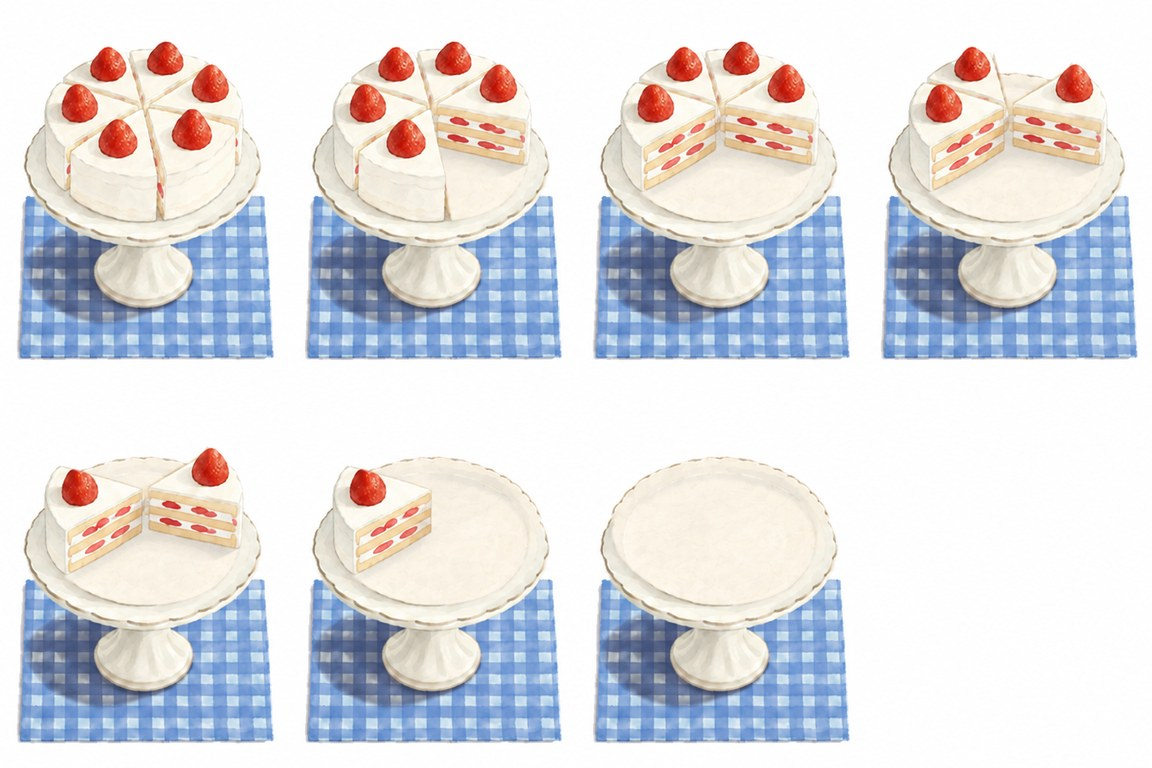
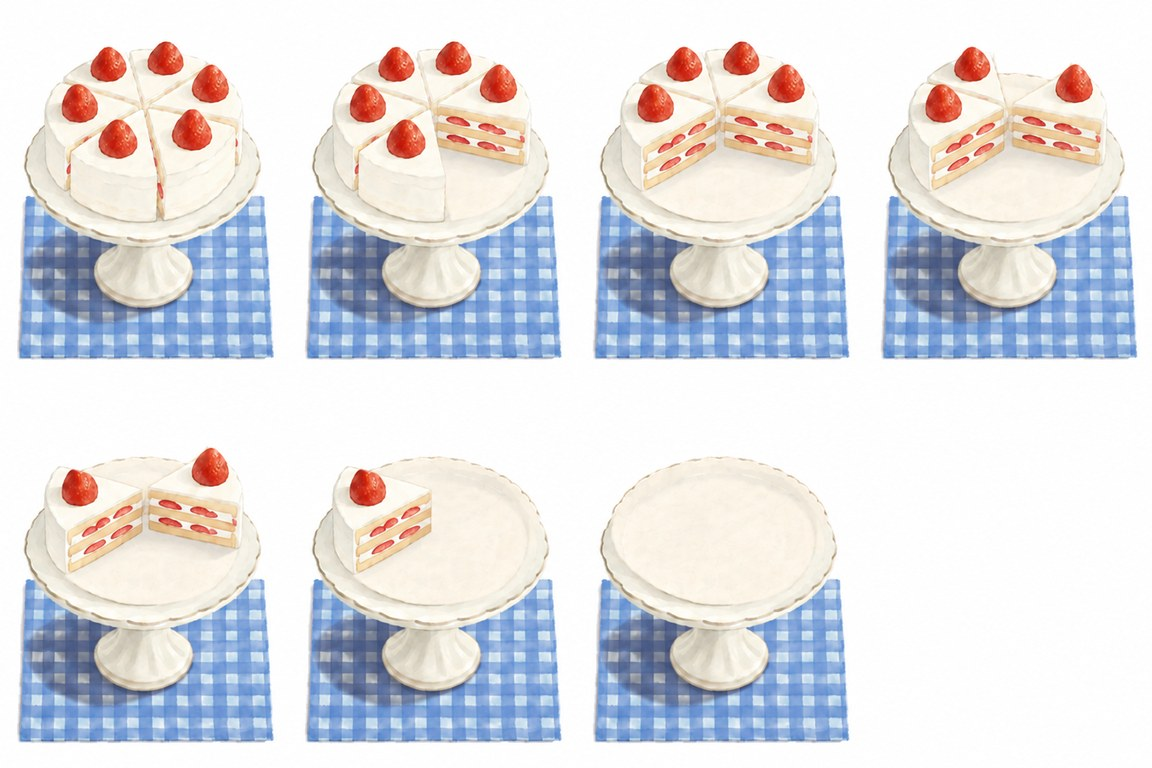
Cookie book: four in a row, pages of sixteen, cookie arrows and a page turn (BookTurner); report: second round of papers and book looks, six knob choices, ChatGPT's second cake retouch

diff --git a/Docs/tools/report_page/index.html b/Docs/tools/report_page/index.html
@@ -74,8 +74,8 @@ h3 small{font-weight:600;color:var(--soft);font-size:13px;margin-left:6px}
 <h2 id="next"><span class="n">1</span>Next</h2>
 <div class="grid">
 <div class="who p1"><h3>You</h3>
-<p><b>Three picks</b> (Current): screenshot captions, paper for the wooden board, the opened cookie book.</p>
-<p><b>Strawberry cake:</b> ChatGPT's retouch is here; tick to put it in the game.</p>
+<p><b>Picks</b> (Current): screenshot captions; paper for Daily Treats and the day card (second round); the cookie book's look (second round); the handle's knob.</p>
+<p><b>Strawberry cake:</b> ChatGPT's second retouch is here.</p>
 <p><b>Build:</b> say when; today's second list is in the project only.</p>
 </div>
 <div class="who p2"><h3>Me</h3>
@@ -101,40 +101,50 @@ h3 small{font-weight:600;color:var(--soft);font-size:13px;margin-left:6px}
 </ul>
 </div>
 <div class="card">
-<p style="margin-top:0"><b>Paper instead of the wooden board: four proposals.</b> The board is used on Daily Treats, the map's day card and the pause menu. Shown in the game; the text and spacing get fitted to the one you pick.</p>
-<figure><img src="paper_treats.jpg" alt="Daily Treats five times: on the wooden board now, on a lined note with a red checked top, on brown kraft paper with a stitched line, on a cream card with a scalloped edge and a red line, on a cream card with a red checked band"><figcaption>Daily Treats.</figcaption></figure>
-<figure><img src="paper_map.jpg" alt="The map's day card five times, on the same five backgrounds"><figcaption>The map's day card.</figcaption></figure>
-<ul>
-<li><b>A</b> is the level-finished paper you already have, so every panel would be the same sheet. <b>B</b> kraft paper, like a bakery bag. <b>C</b> a doily card. <b>D</b> a recipe card with the red checks of the arrange banner.</li>
-</ul>
+<p style="margin-top:0"><b>Paper instead of the wooden board: second round.</b> The three you liked (B, C, D) and five more built on them. Shown in the game; the text and spacing get fitted to the one you pick. Daily Treats and the day card can each have their own.</p>
+<figure><img src="paper_treats2.jpg" alt="Daily Treats on eight papers: kraft, doily card, recipe card with red checks, a cream doily laid on kraft, a scalloped card with a red checked band, a kraft tag with a hole and twine, a cream card with a mint checked band and dotted border, cream paper with red candy stripes top and bottom"><figcaption>Daily Treats.</figcaption></figure>
+<figure><img src="paper_map2.jpg" alt="The map's day card on the same eight papers"><figcaption>The map's day card.</figcaption></figure>
+<p style="margin:6px 0"><b>Daily Treats:</b></p>
 <ul class="checks">
-<li><label><input type="checkbox" data-id="cur.paper.a"> A</label></li>
-<li><label><input type="checkbox" data-id="cur.paper.b"> B</label></li>
-<li><label><input type="checkbox" data-id="cur.paper.c"> C</label></li>
-<li><label><input type="checkbox" data-id="cur.paper.d"> D</label></li>
+<li><label><input type="checkbox" data-id="cur.paper2.t.b"> B</label></li><li><label><input type="checkbox" data-id="cur.paper2.t.c"> C</label></li><li><label><input type="checkbox" data-id="cur.paper2.t.d"> D</label></li><li><label><input type="checkbox" data-id="cur.paper2.t.e"> E</label></li><li><label><input type="checkbox" data-id="cur.paper2.t.f"> F</label></li><li><label><input type="checkbox" data-id="cur.paper2.t.g"> G</label></li><li><label><input type="checkbox" data-id="cur.paper2.t.h"> H</label></li><li><label><input type="checkbox" data-id="cur.paper2.t.i"> I</label></li>
+</ul>
+<p style="margin:6px 0"><b>Day card</b> (and the pause menu):</p>
+<ul class="checks">
+<li><label><input type="checkbox" data-id="cur.paper2.d.b"> B</label></li><li><label><input type="checkbox" data-id="cur.paper2.d.c"> C</label></li><li><label><input type="checkbox" data-id="cur.paper2.d.d"> D</label></li><li><label><input type="checkbox" data-id="cur.paper2.d.e"> E</label></li><li><label><input type="checkbox" data-id="cur.paper2.d.f"> F</label></li><li><label><input type="checkbox" data-id="cur.paper2.d.g"> G</label></li><li><label><input type="checkbox" data-id="cur.paper2.d.h"> H</label></li><li><label><input type="checkbox" data-id="cur.paper2.d.i"> I</label></li>
 </ul>
 </div>
 
 <div class="card">
-<p style="margin-top:0"><b>The opened cookie book: four looks.</b> The book's button is red; open, it is a plain cream sheet. Shown in the game; the cookies get moved in from the edges for the one you pick.</p>
-<figure><img src="book_looks.jpg" alt="The open cookie book five times: plain cream now; inside a red cover with gold corners and a ribbon; as an open book with two pages and a red cover round it; as a recipe binder with red rings; as a kraft scrapbook page with red stitching and taped corners"><figcaption>Now, then 1 to 4.</figcaption></figure>
+<p style="margin-top:0"><b>The cookie book: pages that turn, and a second round of looks.</b></p>
+<p style="margin:8px 0 4px"><b>Built (in the project, no build):</b> four cookies in a row, sixteen to a page. A full page is followed by another; the cookie arrows under the grid turn the page, which lifts at its left edge like a book's. "1 / 2" shows where you are. The book opens on the page with the newest cookie.</p>
+<figure><img src="book_flip.jpg" style="max-height:520px" alt="The book on page 1 with sixteen cookies and a next arrow; the page folding towards the left edge; page 2 with three cookies and a back arrow"><figcaption>Page 1, the page turning, page 2 (on look 3).</figcaption></figure>
+<p style="margin:12px 0 4px"><b>Looks:</b> the three you liked (2, 3, 4) and four more. The cookies and words get moved in from the edges for the one you pick, and the turning page takes its paper.</p>
+<figure><img src="book_looks2.jpg" alt="The open book in seven looks, each with sixteen cookies in rows of four: open book, recipe binder with red rings, kraft scrapbook, a red book bound on the left with a ribbon, a kraft binder with coloured tabs, a spiral notebook with lines, a red checked scrapbook"><figcaption>2, 3, 4 liked; 5 to 8 new.</figcaption></figure>
 <ul class="checks">
-<li><label><input type="checkbox" data-id="cur.book.1"> 1 Red cover frame</label></li>
-<li><label><input type="checkbox" data-id="cur.book.2"> 2 Open book</label></li>
-<li><label><input type="checkbox" data-id="cur.book.3"> 3 Recipe binder</label></li>
-<li><label><input type="checkbox" data-id="cur.book.4"> 4 Scrapbook</label></li>
+<li><label><input type="checkbox" data-id="cur.book2.2"> 2</label></li><li><label><input type="checkbox" data-id="cur.book2.3"> 3</label></li><li><label><input type="checkbox" data-id="cur.book2.4"> 4</label></li><li><label><input type="checkbox" data-id="cur.book2.5"> 5</label></li><li><label><input type="checkbox" data-id="cur.book2.6"> 6</label></li><li><label><input type="checkbox" data-id="cur.book2.7"> 7</label></li><li><label><input type="checkbox" data-id="cur.book2.8"> 8</label></li>
 </ul>
 </div>
 
 <div class="card">
-<p style="margin-top:0"><b>Strawberry cake: ChatGPT's retouch is here.</b> Its picture limit had reset; it made your three fixes today. Not in the game yet.</p>
-<figure><img src="cake_gpt_retouch.jpg" alt="Seven cake frames by ChatGPT: 6, 5, 4, 3 slices in the top row and 2, 1, 0 in the bottom row, every slice with its strawberry, crisp sponge and cream layers on the cut faces, a smooth bare plate"><figcaption>ChatGPT, 19 November: 6, 5, 4, 3 / 2, 1, 0 slices.</figcaption></figure>
+<p style="margin-top:0"><b>Strawberry cake: ChatGPT's second retouch, your two notes.</b> Not in the game yet.</p>
+<figure><img src="cake_frame2_zoom.jpg" alt="Frame 2 close up twice. Left: a pale ridge on the plate at the left of the gap and flat red blobs in the cut face. Right: the ridge fainter and the strawberry pieces with darker edges"><figcaption>Frame 2, close up. Left: its first try. Right: after your notes.</figcaption></figure>
+<figure><img src="cake_gpt_retouch.jpg" alt="ChatGPT's seven cake frames after the second retouch"><figcaption>The whole sheet now.</figcaption></figure>
 <ul>
-<li>Counted: every frame has the right slices, each with its strawberry. Layers crisp, the bare plate smooth, no shade at the last slice's corner.</li>
+<li><b>The line left of the gap:</b> fainter, the plate there smoother. <b>Strawberry pieces:</b> darker edges and a paler inside. Both changes are small; say if it needs another pass.</li>
+<li>ChatGPT has one picture left today (three a day on the free plan).</li>
 </ul>
 <ul class="checks">
-<li><label><input type="checkbox" data-id="cur.cakegpt.use"> Cut it into the game</label></li>
-<li><label><input type="checkbox" data-id="cur.cakegpt.change"> Changes (I will say what)</label></li>
+<li><label><input type="checkbox" data-id="cur.cakegpt2.use"> Good, cut it into the game</label></li>
+<li><label><input type="checkbox" data-id="cur.cakegpt2.again"> Another pass on the same two things</label></li>
+<li><label><input type="checkbox" data-id="cur.cakegpt2.change"> Other changes (I will say what)</label></li>
+</ul>
+</div>
+
+<div class="card">
+<p style="margin-top:0"><b>Pull handle: six more knobs, on the biscuit stick.</b> By Gemini. The one in the project now is the white ring.</p>
+<figure><img src="handle_knobs.jpg" alt="Seven handle knobs on a biscuit stick: the white ring with red sprinkles, a chocolate chip cookie, a jam thumbprint with a scalloped edge, a pink and cream pinwheel, a pink iced ring, a yellow flower, a plain biscuit with a pressed heart"><figcaption>Now, then 1 to 6.</figcaption></figure>
+<ul class="checks">
+<li><label><input type="checkbox" data-id="cur.knob.0"> Keep the white ring</label></li><li><label><input type="checkbox" data-id="cur.knob.1"> 1</label></li><li><label><input type="checkbox" data-id="cur.knob.2"> 2</label></li><li><label><input type="checkbox" data-id="cur.knob.3"> 3</label></li><li><label><input type="checkbox" data-id="cur.knob.4"> 4</label></li><li><label><input type="checkbox" data-id="cur.knob.5"> 5</label></li><li><label><input type="checkbox" data-id="cur.knob.6"> 6</label></li>
 </ul>
 </div>
 

diff --git a/Assets/Scripts/Shop/ShopCookies.cs b/Assets/Scripts/Shop/ShopCookies.cs
@@ -288,18 +288,14 @@ public static class ShopCookies
         var title = Label(page, "Title", "MY COOKIES", titleFont, 78f, new Vector2(0f, H / 2f - 90f), new Vector2(W - 60f, 110f));
         title.color = Ink;
 
-        // as many columns as it takes for every owned cookie to fit above the description (18 can be owned; on an
-        // iPad four columns hold only 16)
-        const float infoH = 330f;
-        var gridTop = H / 2f - 170f; var gridBottom = -H / 2f + infoH + 60f;
-        var columns = 4; float cell;
-        while (true)
-        {
-            cell = (W - 80f) / columns;
-            var rows = Mathf.Max(1, Mathf.CeilToInt(owned.Count / (float)columns));
-            if (rows * cell <= gridTop - gridBottom || columns >= 7) break;
-            columns++;
-        }
+        // four cookies in a row, and as many rows as fit above the description; a full page is followed by another, turned
+        // like a book's with the arrows under the grid (owner, 19 November 2026: "put four cookies in a row, we will
+        // have a page flip effect when a page is full, and a next arrow to click on to flip the page. So it's like a book")
+        const float infoH = 330f; const float arrowRow = 110f; const int columns = 4;
+        var gridTop = H / 2f - 170f; var gridBottom = -H / 2f + infoH + 60f + arrowRow;
+        var cell = (W - 80f) / columns;
+        var rowsPerPage = Mathf.Max(1, Mathf.FloorToInt((gridTop - gridBottom) / cell)); var perPage = rowsPerPage * columns;
+        var pageCount = Mathf.Max(1, Mathf.CeilToInt(owned.Count / (float)perPage));
         var icon = cell * 0.86f;
         // the chosen thing: its cookie, its name and what it does, on the lower part of the page
         var chosen = Child(page, "Chosen", new Vector2(0.5f, 0.5f), new Vector2(230f, 230f), new Vector2(-W / 2f + 170f, -H / 2f + infoH / 2f + 30f));
@@ -312,11 +308,14 @@ public static class ShopCookies
         var ruleImg = rule.gameObject.AddComponent<Image>(); ruleImg.color = new Color(Ink.r, Ink.g, Ink.b, 0.25f); ruleImg.raycastTarget = false;
 
         var cells = new List<RectTransform>(); var newest = owned.Count - 1;
+        var leaves = new List<RectTransform>();
+        for (var k = 0; k < pageCount; k++) { var leaf = Child(page, "Leaf" + k, new Vector2(0.5f, 0.5f), new Vector2(W, H), Vector2.zero); leaf.gameObject.SetActive(false); leaves.Add(leaf); }
         for (var i = 0; i < owned.Count; i++)
         {
             var e = owned[i];
-            var pos = new Vector2(-W / 2f + 40f + cell * (i % columns + 0.5f), gridTop - cell * (i / columns + 0.5f));
-            var c = Child(page, "Owned" + i, new Vector2(0.5f, 0.5f), new Vector2(icon, icon), pos);
+            var onPage = i / perPage; var slot = i % perPage;
+            var pos = new Vector2(-W / 2f + 40f + cell * (slot % columns + 0.5f), gridTop - cell * (slot / columns + 0.5f));
+            var c = Child(leaves[onPage], "Owned" + i, new Vector2(0.5f, 0.5f), new Vector2(icon, icon), pos);
             var ci = c.gameObject.AddComponent<Image>(); ci.sprite = e.cookie; ci.preserveAspect = true;
             var cb = c.gameObject.AddComponent<Button>(); cb.transition = Selectable.Transition.None;
             cells.Add(c);
@@ -342,6 +341,22 @@ public static class ShopCookies
             var x = Child(page, "Close", new Vector2(0.5f, 0.5f), new Vector2(96f, 96f), new Vector2(W / 2f - 76f, H / 2f - 82f));
             var xi = x.gameObject.AddComponent<Image>(); xi.sprite = cross; xi.preserveAspect = true;
             x.gameObject.AddComponent<Button>().onClick.AddListener(CloseBook);
+        }
+        // the pages: the one with the newest cookie first; arrows and "1 / 2" under the grid when there is more than one
+        var turner = go.AddComponent<BookTurner>();
+        turner.Set(page, leaves, owned.Count > 0 ? newest / perPage : 0, new Rect(-W / 2f + 20f, gridBottom, W - 40f, gridTop - gridBottom), pageImg.color);
+        if (pageCount > 1)
+        {
+            var arrowY = gridBottom - arrowRow / 2f + 6f;
+            const float ArrowW = 230f, ArrowH = 150f;   // the map arrow's picture has wide margins
+            var count = Label(page, "PageCount", "", titleFont, 58f, new Vector2(0f, arrowY), new Vector2(240f, 70f)); count.color = new Color(Ink.r, Ink.g, Ink.b, 0.7f);
+            var next = Child(page, "NextPage", new Vector2(0.5f, 0.5f), new Vector2(ArrowW, ArrowH), new Vector2(W / 2f - 150f, arrowY));
+            var ni = next.gameObject.AddComponent<Image>(); ni.sprite = Resources.Load<Sprite>("Map/arrow_right"); ni.preserveAspect = true;
+            var prev = Child(page, "PrevPage", new Vector2(0.5f, 0.5f), new Vector2(ArrowW, ArrowH), new Vector2(-W / 2f + 150f, arrowY));
+            var pi = prev.gameObject.AddComponent<Image>(); pi.sprite = Resources.Load<Sprite>("Map/arrow_left"); pi.preserveAspect = true;
+            var nb = next.gameObject.AddComponent<Button>(); nb.transition = Selectable.Transition.None; nb.onClick.AddListener(() => turner.Turn(1));
+            var pb = prev.gameObject.AddComponent<Button>(); pb.transition = Selectable.Transition.None; pb.onClick.AddListener(() => turner.Turn(-1));
+            turner.Controls(count, next.gameObject, prev.gameObject);
         }
         if (owned.Count > 0) cells[newest].GetComponent<Button>().onClick.Invoke();   // a new one is shown first
         // looked at: the labels stay on this open page, the book's own label goes
@@ -374,3 +389,69 @@ public static class ShopCookies
         return t;
     }
 }
+
+/// The cookie book's pages: one leaf of cookies shown at a time; a turn lifts the leaf at its left edge like a page
+/// and the next one lies under it (back: the earlier leaf comes down over the page). Unscaled time.
+public class BookTurner : MonoBehaviour
+{
+    private RectTransform page; private List<RectTransform> leaves; private int current; private Rect grid; private Color paper;
+    private TextMeshProUGUI count; private GameObject next, prev; private bool turning;
+    private const float Seconds = 0.38f;
+
+    public void Set(RectTransform bookPage, List<RectTransform> all, int first, Rect gridArea, Color paperColour)
+    {
+        page = bookPage; leaves = all; grid = gridArea; paper = new Color(paperColour.r, paperColour.g, paperColour.b, 1f);
+        current = Mathf.Clamp(first, 0, leaves.Count - 1);
+        for (var i = 0; i < leaves.Count; i++) leaves[i].gameObject.SetActive(i == current);
+    }
+
+    public void Controls(TextMeshProUGUI pageCount, GameObject nextArrow, GameObject prevArrow) { count = pageCount; next = nextArrow; prev = prevArrow; Show(); }
+
+    private void Show()
+    {
+        if (count != null) count.text = (current + 1) + " / " + leaves.Count;
+        if (next != null) next.SetActive(current < leaves.Count - 1);
+        if (prev != null) prev.SetActive(current > 0);
+    }
+
+    public void Turn(int by)
+    {
+        var to = current + by;
+        if (turning || to < 0 || to >= leaves.Count) return;
+        StartCoroutine(Flip(to, by > 0));
+    }
+
+    private IEnumerator Flip(int to, bool forward)
+    {
+        turning = true;
+        // the sheet that turns: paper over the grid's area, hinged on its left edge, carrying one leaf's cookies
+        var sheetGo = new GameObject("TurningSheet", typeof(RectTransform), typeof(CanvasRenderer), typeof(Image));
+        var sheet = (RectTransform)sheetGo.transform; sheet.SetParent(page, false);
+        sheet.anchorMin = sheet.anchorMax = new Vector2(0.5f, 0.5f); sheet.pivot = new Vector2(0f, 0.5f);
+        sheet.sizeDelta = grid.size; sheet.anchoredPosition = new Vector2(grid.xMin, grid.center.y);
+        var sheetImg = sheetGo.GetComponent<Image>(); sheetImg.color = paper; sheetImg.raycastTarget = true;   // no taps through a turning page
+        var carried = leaves[forward ? current : to];
+        var under = leaves[forward ? to : current];
+        under.gameObject.SetActive(true); carried.gameObject.SetActive(true);
+        sheet.SetSiblingIndex(under.GetSiblingIndex() + 1);
+        carried.SetParent(sheet, true);
+        var shadeGo = new GameObject("Shade", typeof(RectTransform), typeof(CanvasRenderer), typeof(Image));
+        var shade = (RectTransform)shadeGo.transform; shade.SetParent(sheet, false); shade.anchorMin = Vector2.zero; shade.anchorMax = Vector2.one; shade.offsetMin = shade.offsetMax = Vector2.zero;
+        var shadeImg = shadeGo.GetComponent<Image>(); shadeImg.raycastTarget = false;
+        if (AudioManager.Instance != null) AudioManager.Instance.PlayButtonClick();
+        for (var t = 0f; t < Seconds; t += Time.unscaledDeltaTime)
+        {
+            var k = Mathf.SmoothStep(0f, 1f, t / Seconds); var open = forward ? 1f - k : k;      // how much of the sheet lies flat
+            sheet.localScale = new Vector3(Mathf.Max(0.001f, open), 1f, 1f);
+            shadeImg.color = new Color(0.25f, 0.15f, 0.08f, 0.38f * (1f - open));
+            yield return null;
+        }
+        carried.SetParent(page, true); carried.localScale = Vector3.one; carried.anchoredPosition = Vector2.zero;
+        carried.SetSiblingIndex(under.GetSiblingIndex());
+        Destroy(sheetGo);
+        current = to;
+        for (var i = 0; i < leaves.Count; i++) leaves[i].gameObject.SetActive(i == current);
+        Show(); turning = false;
+    }
+}
+
